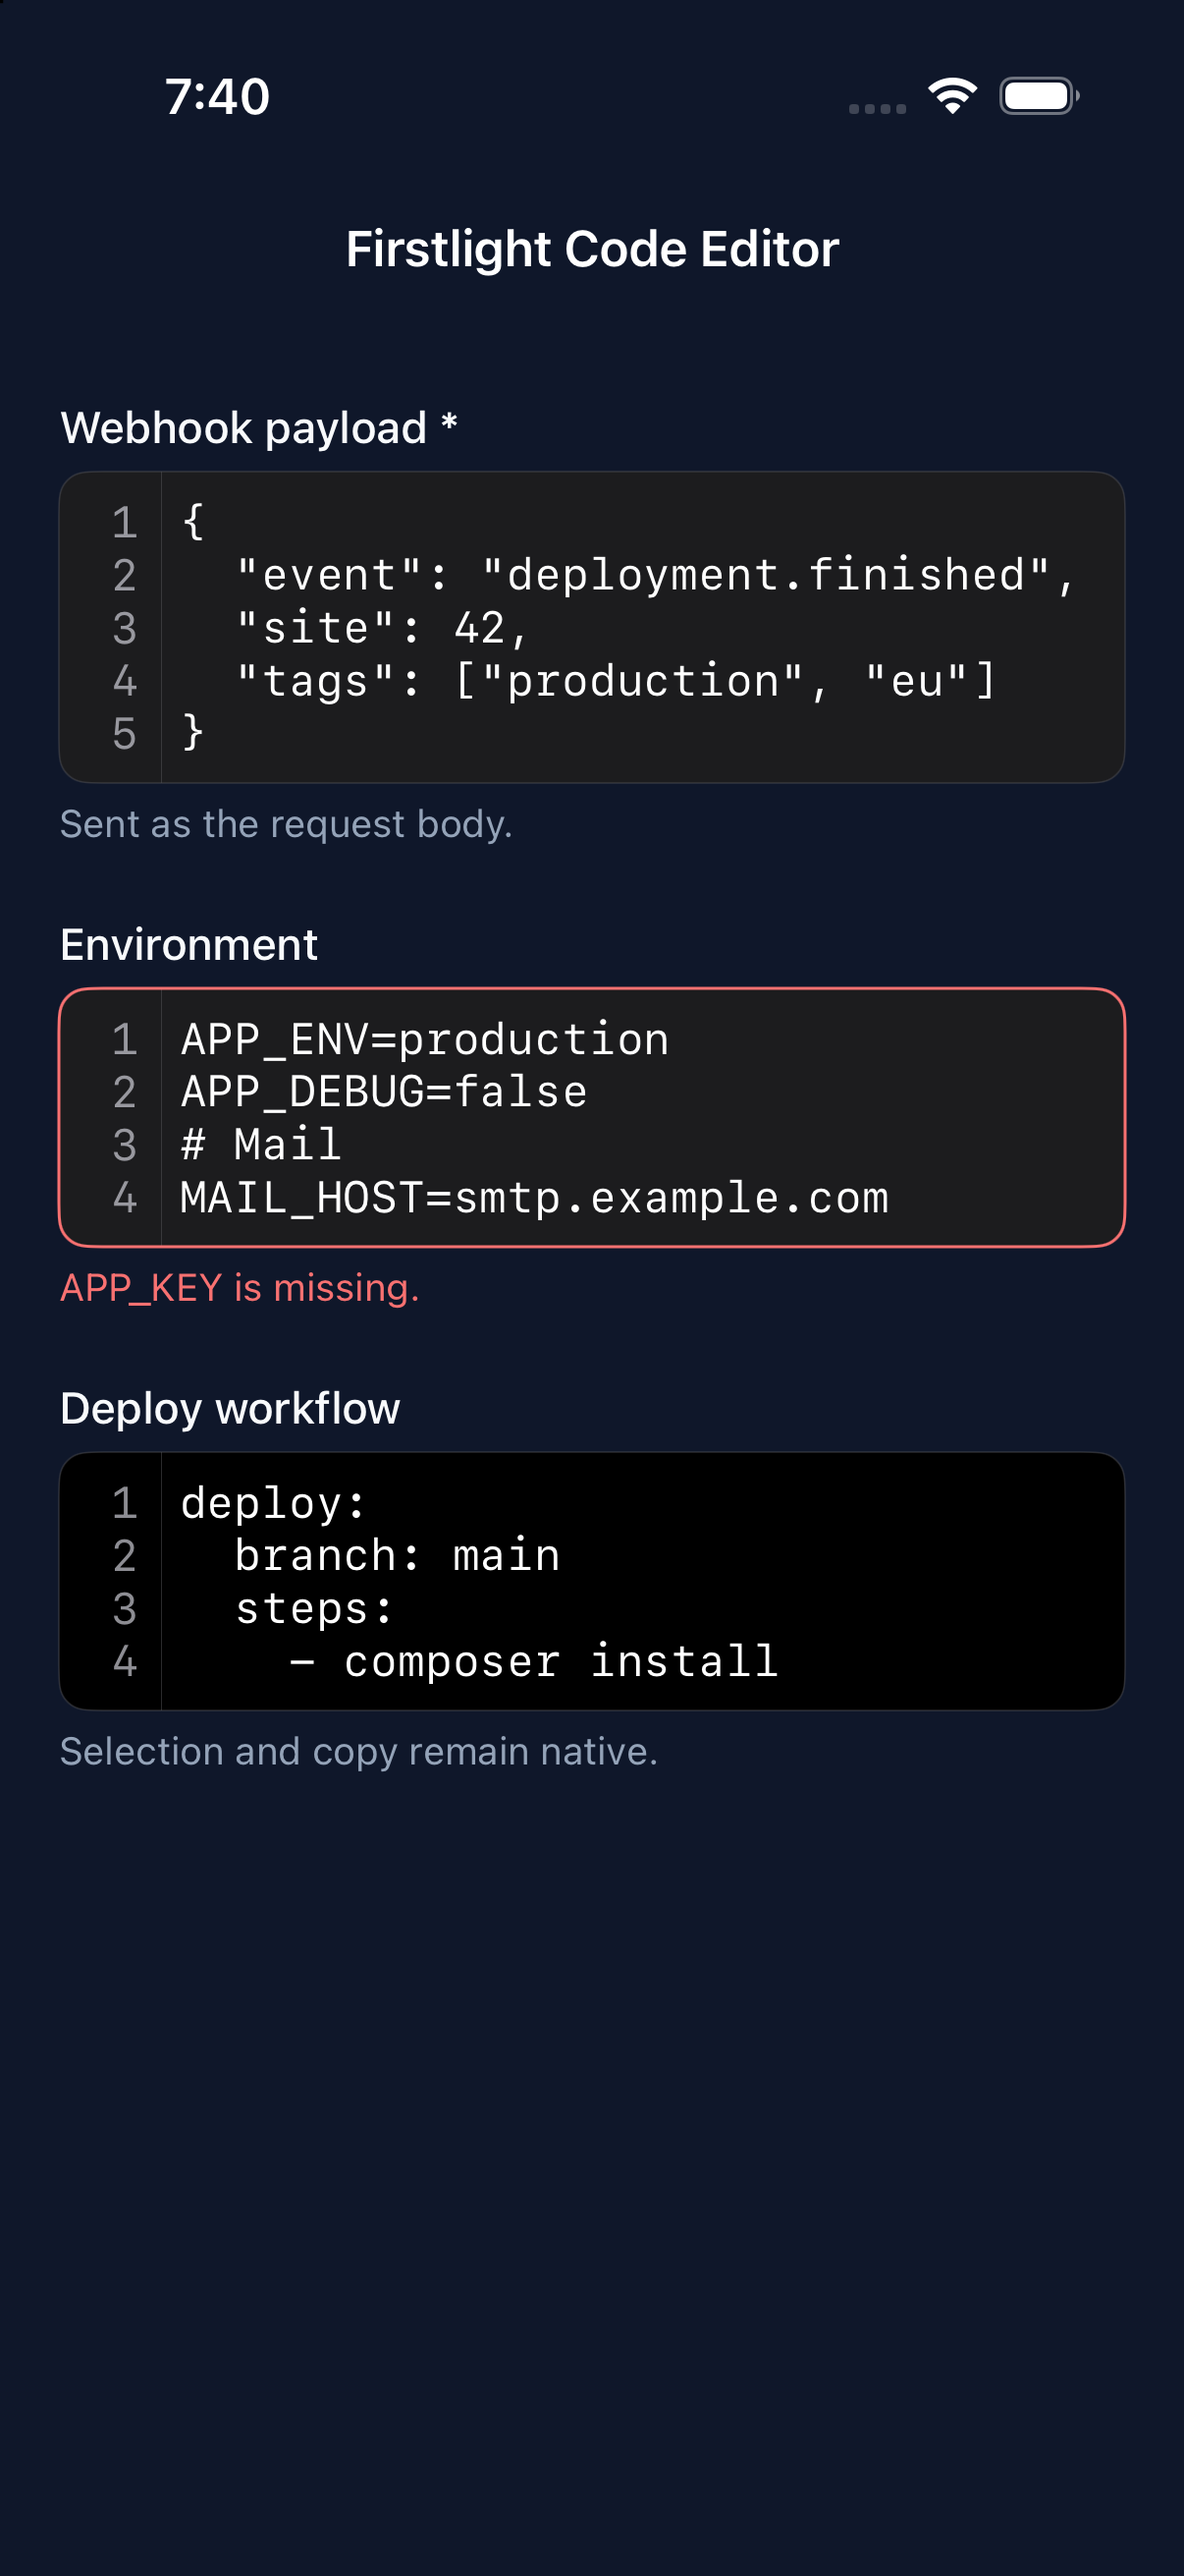
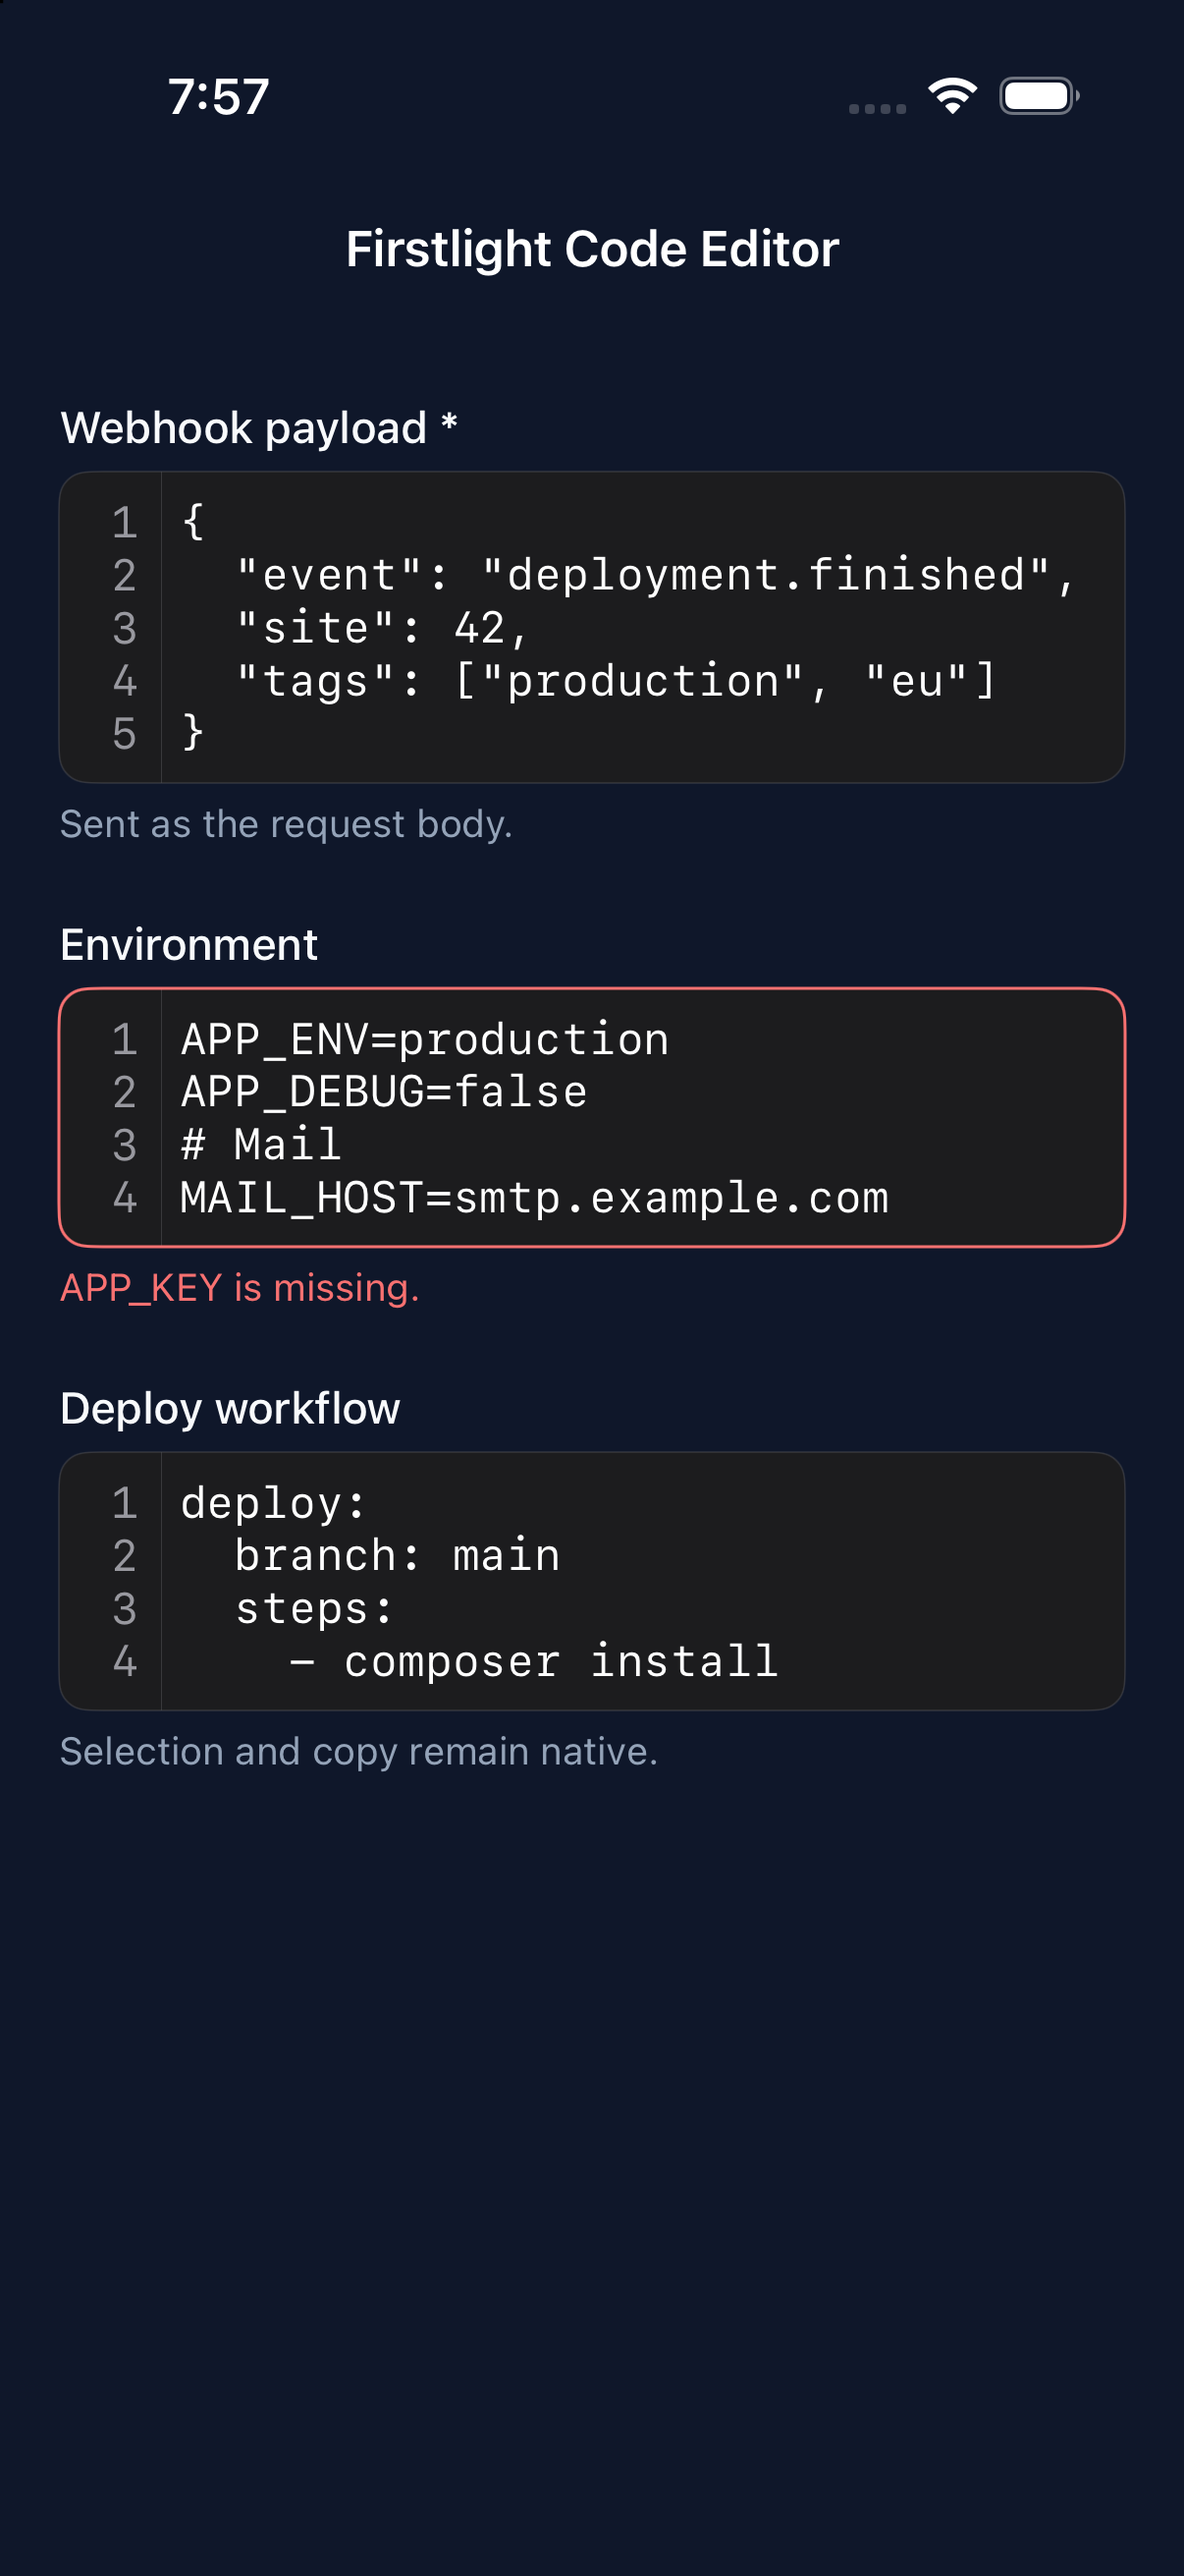
Give the iOS Code Editor a uniform field and a material key row
The read-only editor drew on systemBackground, which is pure black in
dark mode; every editor now uses secondarySystemBackground, as Text Area
does. The key row had no background, so page text showed through behind
the keys on iOS 26+; it now sits on a UIGlassEffect (systemChromeMaterial
blur before iOS 26). The key-row snapshot hides the material, which only
renders on screen, and the test asserts its effect type instead.
Re-captured the iOS documentation screenshots.

Amp-Thread-ID: https://ampcode.com/threads/T-01a15589-290e-753c-a25b-99497793749c

Changed region(s): [[0.0307, 0.5561, 0.9511, 0.6796], [0.1534, 0.0309, 0.2454, 0.0618]]

diff --git a/resources/ios/CodeEditorControl.swift b/resources/ios/CodeEditorControl.swift
@@ -27,7 +27,7 @@ struct FirstlightCodeEditorField: View {
                 onFocusChanged: onFocusChanged
             )
             .background(
-                configuration.readOnly ? Color(uiColor: .systemBackground) : Color(uiColor: .secondarySystemBackground)
+                Color(uiColor: .secondarySystemBackground)
             )
             .clipShape(RoundedRectangle(cornerRadius: 10, style: .continuous))
             .overlay {
@@ -1004,6 +1004,13 @@ final class CodeEditorKeyRow: UIInputView {
     private(set) var language: CodeEditorLanguage
     private let scrollView = UIScrollView()
     private let stack = UIStackView()
+    /// System material behind the keys, so the page never shows through the row.
+    let backgroundView: UIVisualEffectView = {
+        if #available(iOS 26.0, *) {
+            return UIVisualEffectView(effect: UIGlassEffect())
+        }
+        return UIVisualEffectView(effect: UIBlurEffect(style: .systemChromeMaterial))
+    }()
     private var canUndo = false
     private var canRedo = false
 
@@ -1021,11 +1028,17 @@ final class CodeEditorKeyRow: UIInputView {
         stack.translatesAutoresizingMaskIntoConstraints = false
         doneButton.translatesAutoresizingMaskIntoConstraints = false
         doneButton.addAction(UIAction { [weak self] _ in self?.onDone() }, for: .touchUpInside)
+        backgroundView.translatesAutoresizingMaskIntoConstraints = false
+        addSubview(backgroundView)
         addSubview(scrollView)
         scrollView.addSubview(stack)
         addSubview(doneButton)
 
         NSLayoutConstraint.activate([
+            backgroundView.leadingAnchor.constraint(equalTo: leadingAnchor),
+            backgroundView.trailingAnchor.constraint(equalTo: trailingAnchor),
+            backgroundView.topAnchor.constraint(equalTo: topAnchor),
+            backgroundView.bottomAnchor.constraint(equalTo: bottomAnchor),
             scrollView.leadingAnchor.constraint(equalTo: leadingAnchor),
             scrollView.topAnchor.constraint(equalTo: topAnchor, constant: 4),
             scrollView.bottomAnchor.constraint(equalTo: bottomAnchor, constant: -4),

diff --git a/tests/ios/CodeEditorSnapshotTests.swift b/tests/ios/CodeEditorSnapshotTests.swift
@@ -52,6 +52,13 @@ final class CodeEditorSnapshotTests: XCTestCase {
     func testKeyRowSnapshot() {
         let row = CodeEditorKeyRow(language: .json, labels: .english)
         row.setUndoState(canUndo: true, canRedo: false)
+        if #available(iOS 26.0, *) {
+            XCTAssertTrue(row.backgroundView.effect is UIGlassEffect)
+        } else {
+            XCTAssertTrue(row.backgroundView.effect is UIBlurEffect)
+        }
+        // System material renders black off screen, so the snapshot covers the keys only.
+        row.backgroundView.isHidden = true
         let container = UIView(frame: CGRect(x: 0, y: 0, width: 375, height: 60))
         container.backgroundColor = .systemBackground
         row.frame = container.bounds
